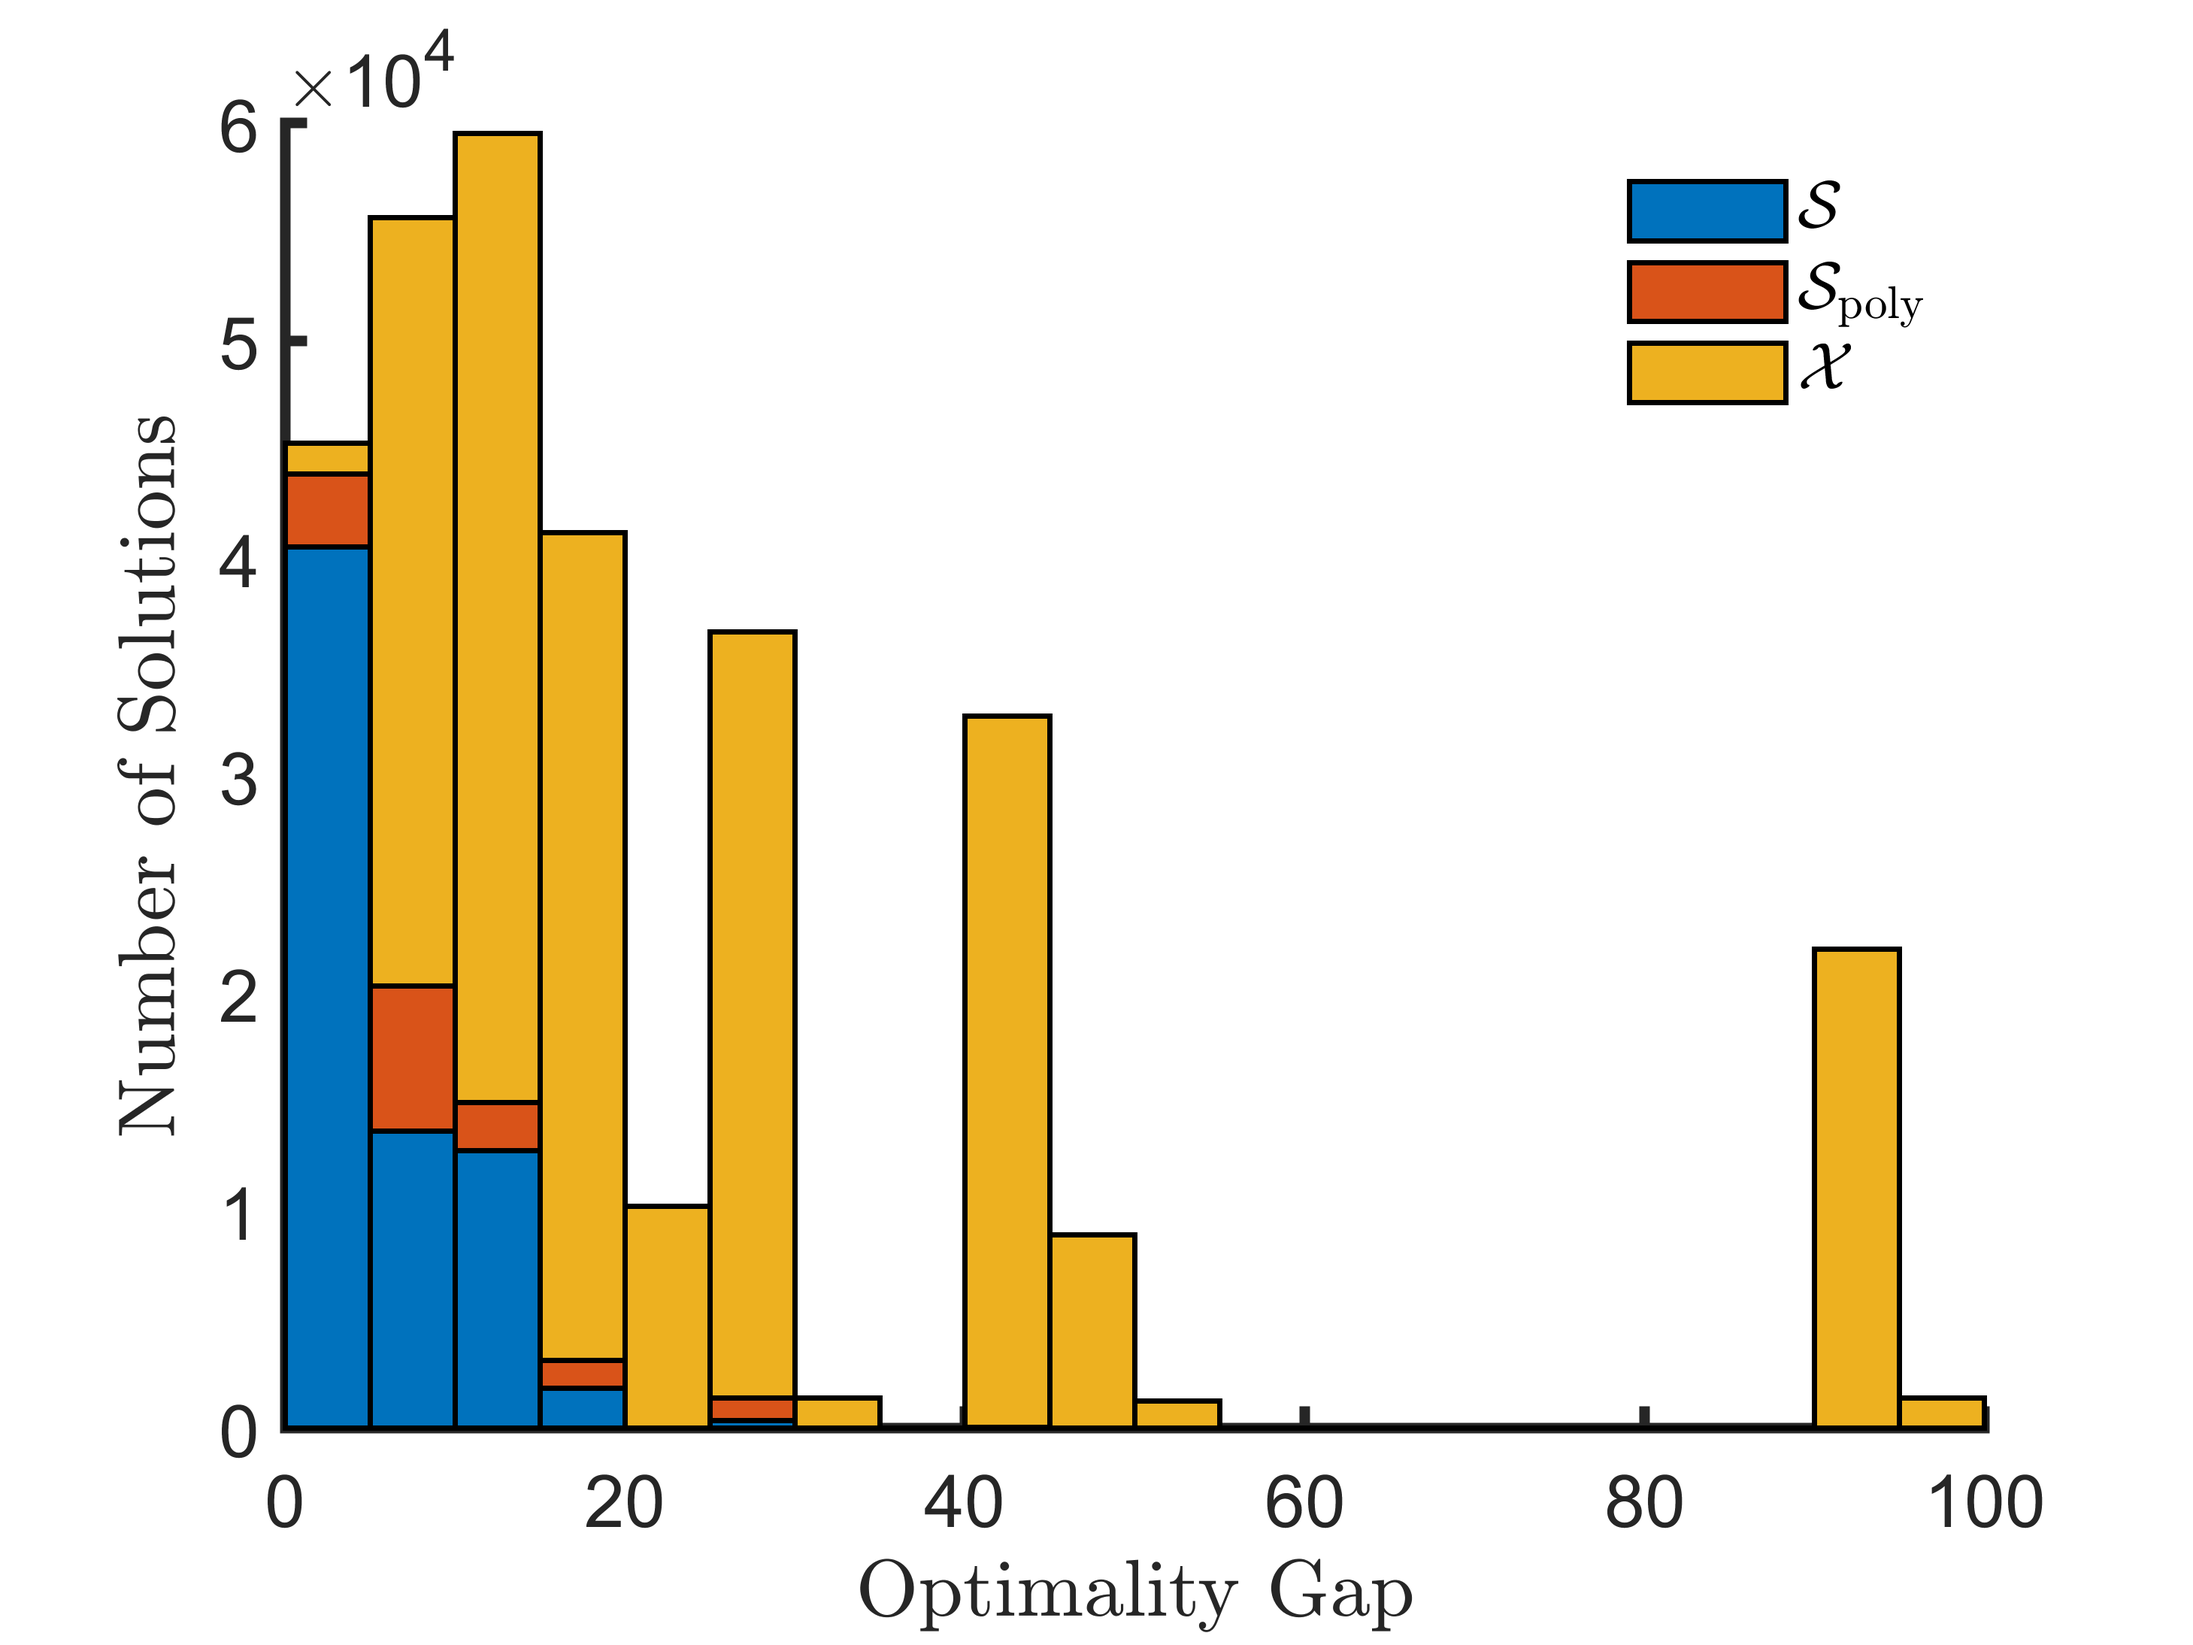
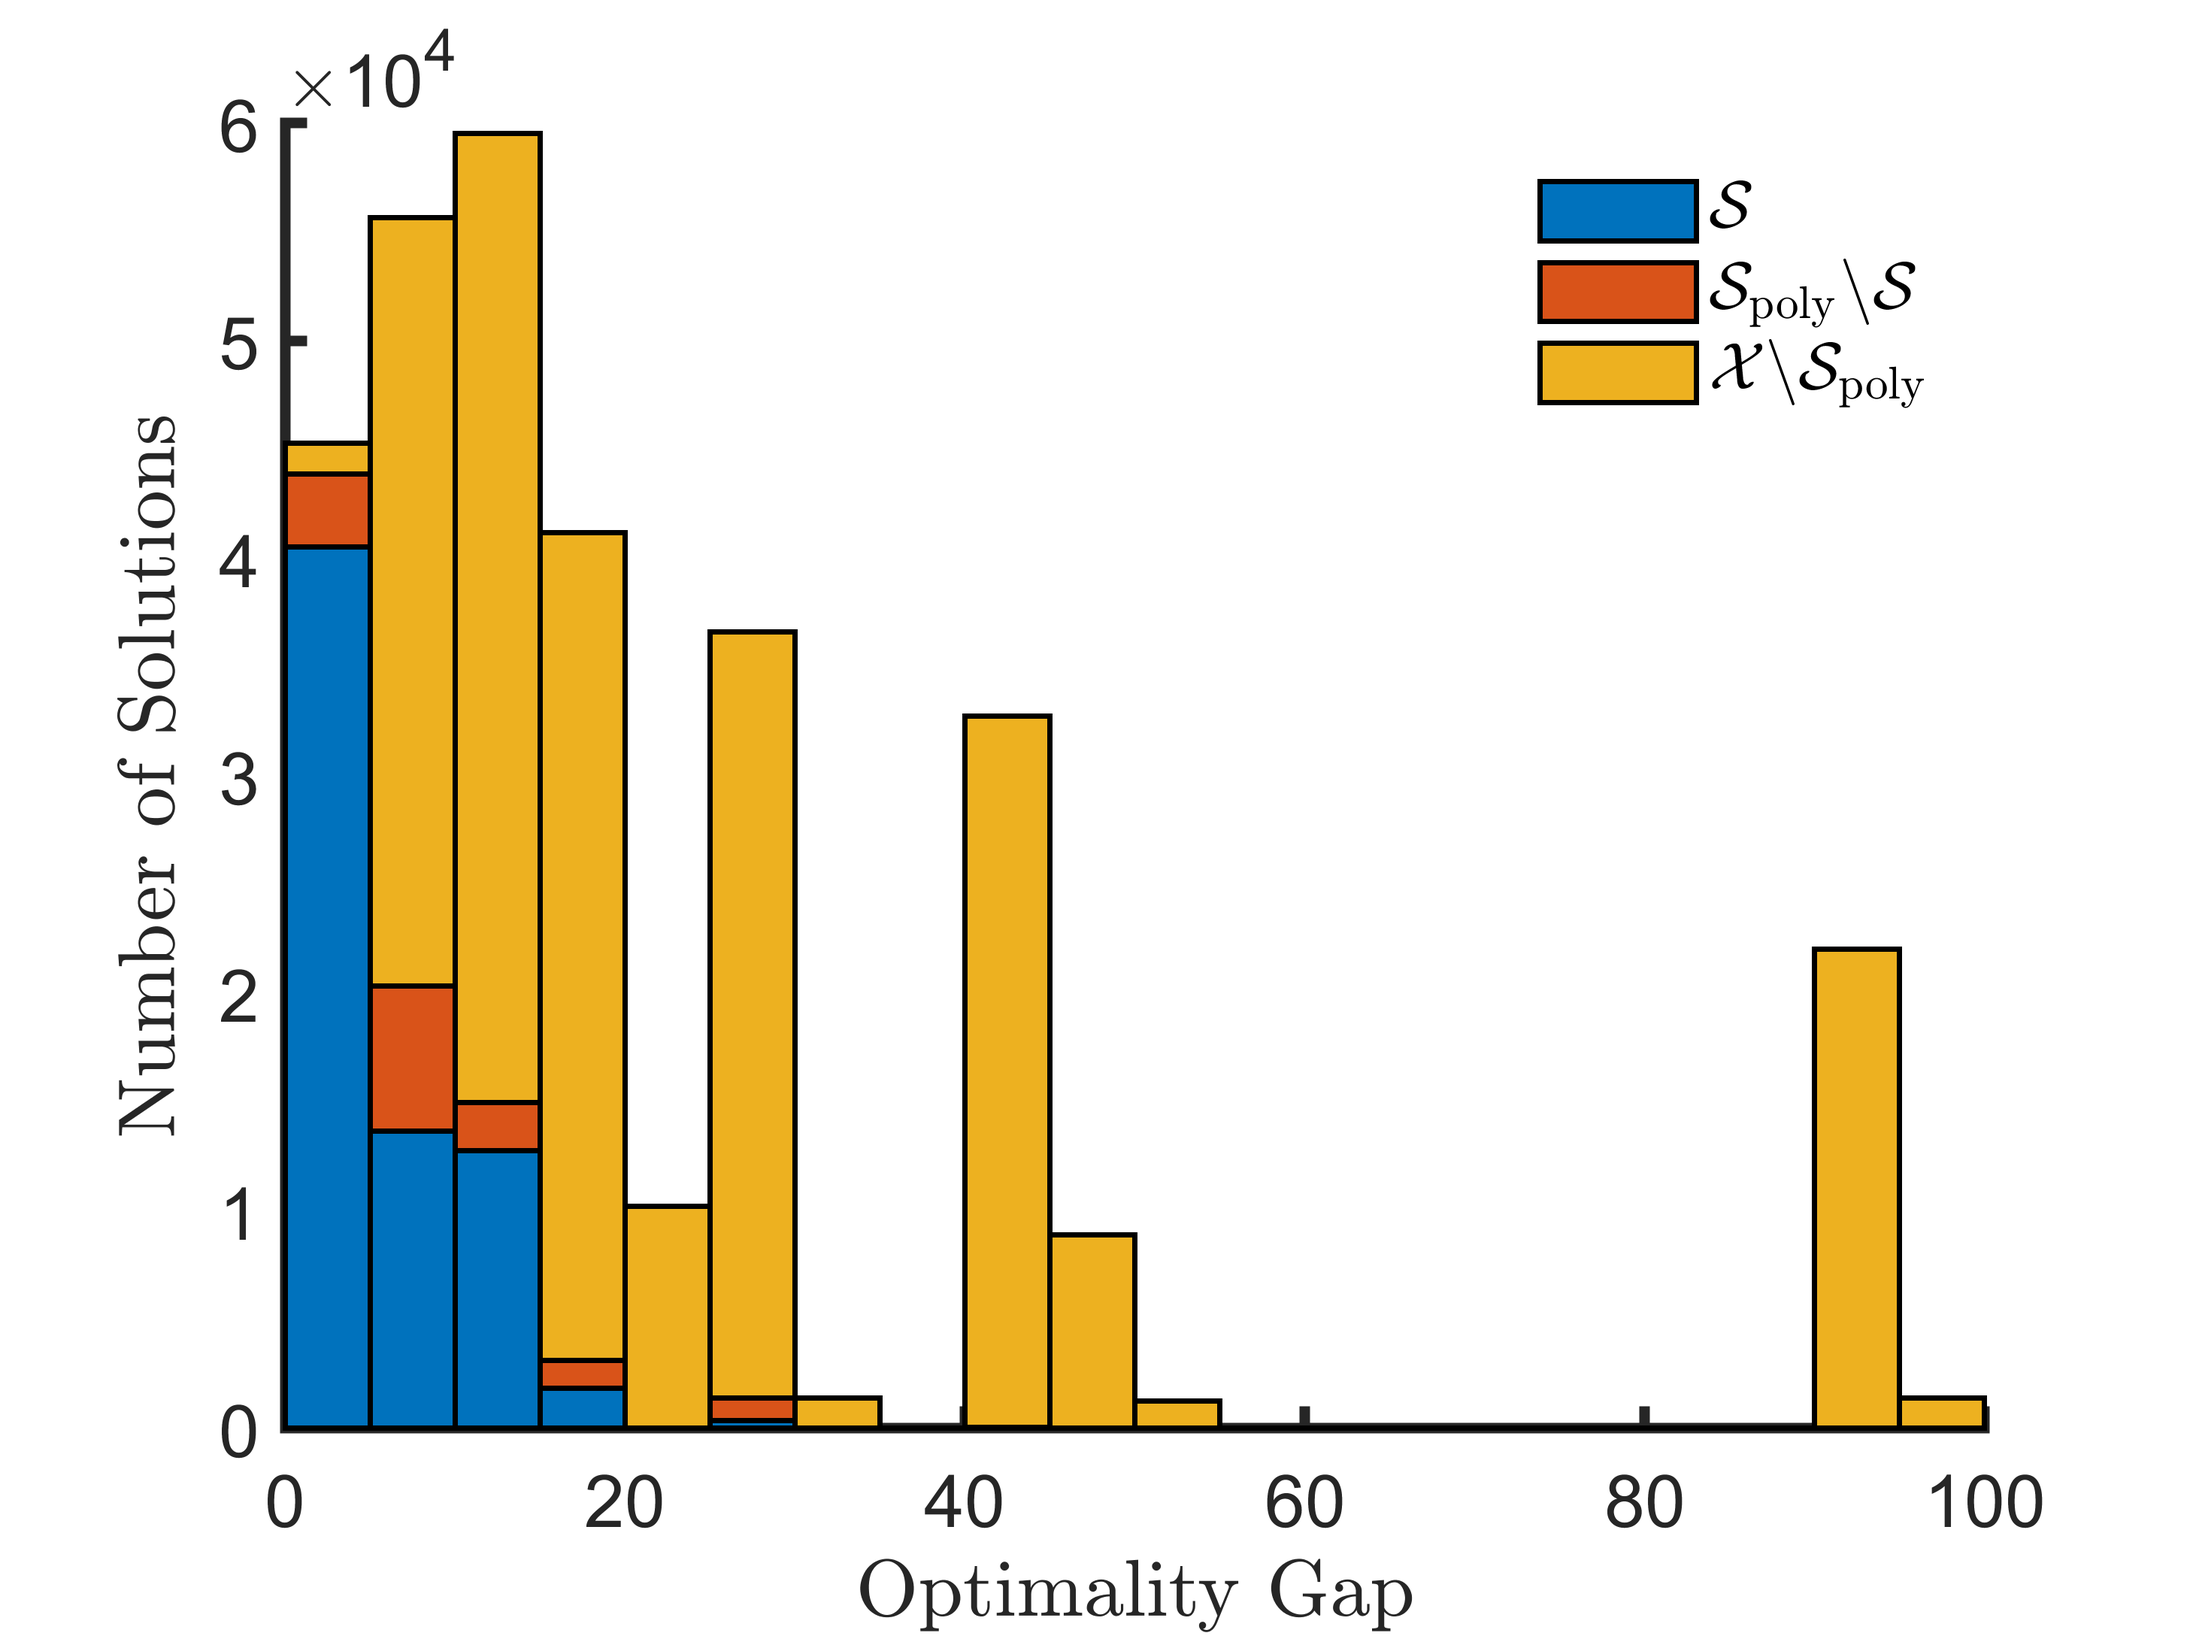
update tandem figures
Updated line colors and legend labels.

Changed region(s): [[0.6863, 0.0932, 0.8735, 0.2486]]

diff --git a/data/tandem/make_plots_tandem.m b/data/tandem/make_plots_tandem.m
@@ -32,9 +32,9 @@ h1 = plot(log(sort(D_x0s_d1)/D_cutoffs(1)), 'color', rgb_red, 'LineWidth', 2);
 h2 = plot(log(sort(D_x0s_d2)/D_cutoffs(2)), 'color', rgb_yellow, 'LineWidth', 2);
 h3 = plot(log(sort(D_x0s_dinf)/D_cutoffs(3)), 'color', rgb_purple, 'LineWidth', 2);
 line([0,card_feas_region], [0, 0], 'Color', 'black', 'LineStyle', ':', 'LineWidth', 1.5);
-line([sum(D_x0s_d1 <= D_cutoffs(1)), sum(D_x0s_d1 <= D_cutoffs(1))], [-2, 0], 'Color', 'black', 'LineStyle', ':', 'LineWidth', 1.5);
-line([sum(D_x0s_d2 <= D_cutoffs(2)), sum(D_x0s_d2 <= D_cutoffs(2))], [-2, 0], 'Color', 'black', 'LineStyle', ':', 'LineWidth', 1.5);
-line([sum(D_x0s_dinf <= D_cutoffs(3)), sum(D_x0s_dinf <= D_cutoffs(3))], [-2, 0], 'Color', 'black', 'LineStyle', ':', 'LineWidth', 1.5);
+line([sum(D_x0s_d1 <= D_cutoffs(1)), sum(D_x0s_d1 <= D_cutoffs(1))], [-2, 0], 'Color', rgb_red, 'LineStyle', ':', 'LineWidth', 1.5);
+line([sum(D_x0s_d2 <= D_cutoffs(2)), sum(D_x0s_d2 <= D_cutoffs(2))], [-2, 0], 'Color', rgb_yellow, 'LineStyle', ':', 'LineWidth', 1.5);
+line([sum(D_x0s_dinf <= D_cutoffs(3)), sum(D_x0s_dinf <= D_cutoffs(3))], [-2, 0], 'Color', rgb_purple, 'LineStyle', ':', 'LineWidth', 1.5);
 %plot([0, card_feas_region], [0, 0], 'k:', 'LineWidth', 1.5);
 legend([h1, h2, h3], string_names, 'location', 'northwest', 'Interpreter', 'latex');
 legend boxoff
@@ -74,9 +74,9 @@ bar(bin_centers, [raw_S; raw_Spoly - raw_S; raw_X - raw_Spoly]', 1, 'stacked', '
 %histogram(opt_gap(S_poly_indicators == 1), bins);
 %histogram(opt_gap(S_indicators == 1), bins);
 
-legend_strings = {'$\mathcal{S}$', '$\mathcal{S}_{\mathrm{poly}}$', '$\mathcal{X}$'};
+legend_strings = {'$\mathcal{S}$', '$\mathcal{S}_{\mathrm{poly}}\backslash \mathcal{S}$', '$\mathcal{X} \backslash \mathcal{S}_{\mathrm{poly}}$'};
 legend(legend_strings, 'location', 'northeast', 'Interpreter', 'latex');
 legend boxoff
 hold off
 
-print('histogram_opt_gap_tandem','-dpng','-r500')
+%print('histogram_opt_gap_tandem','-dpng','-r500')
